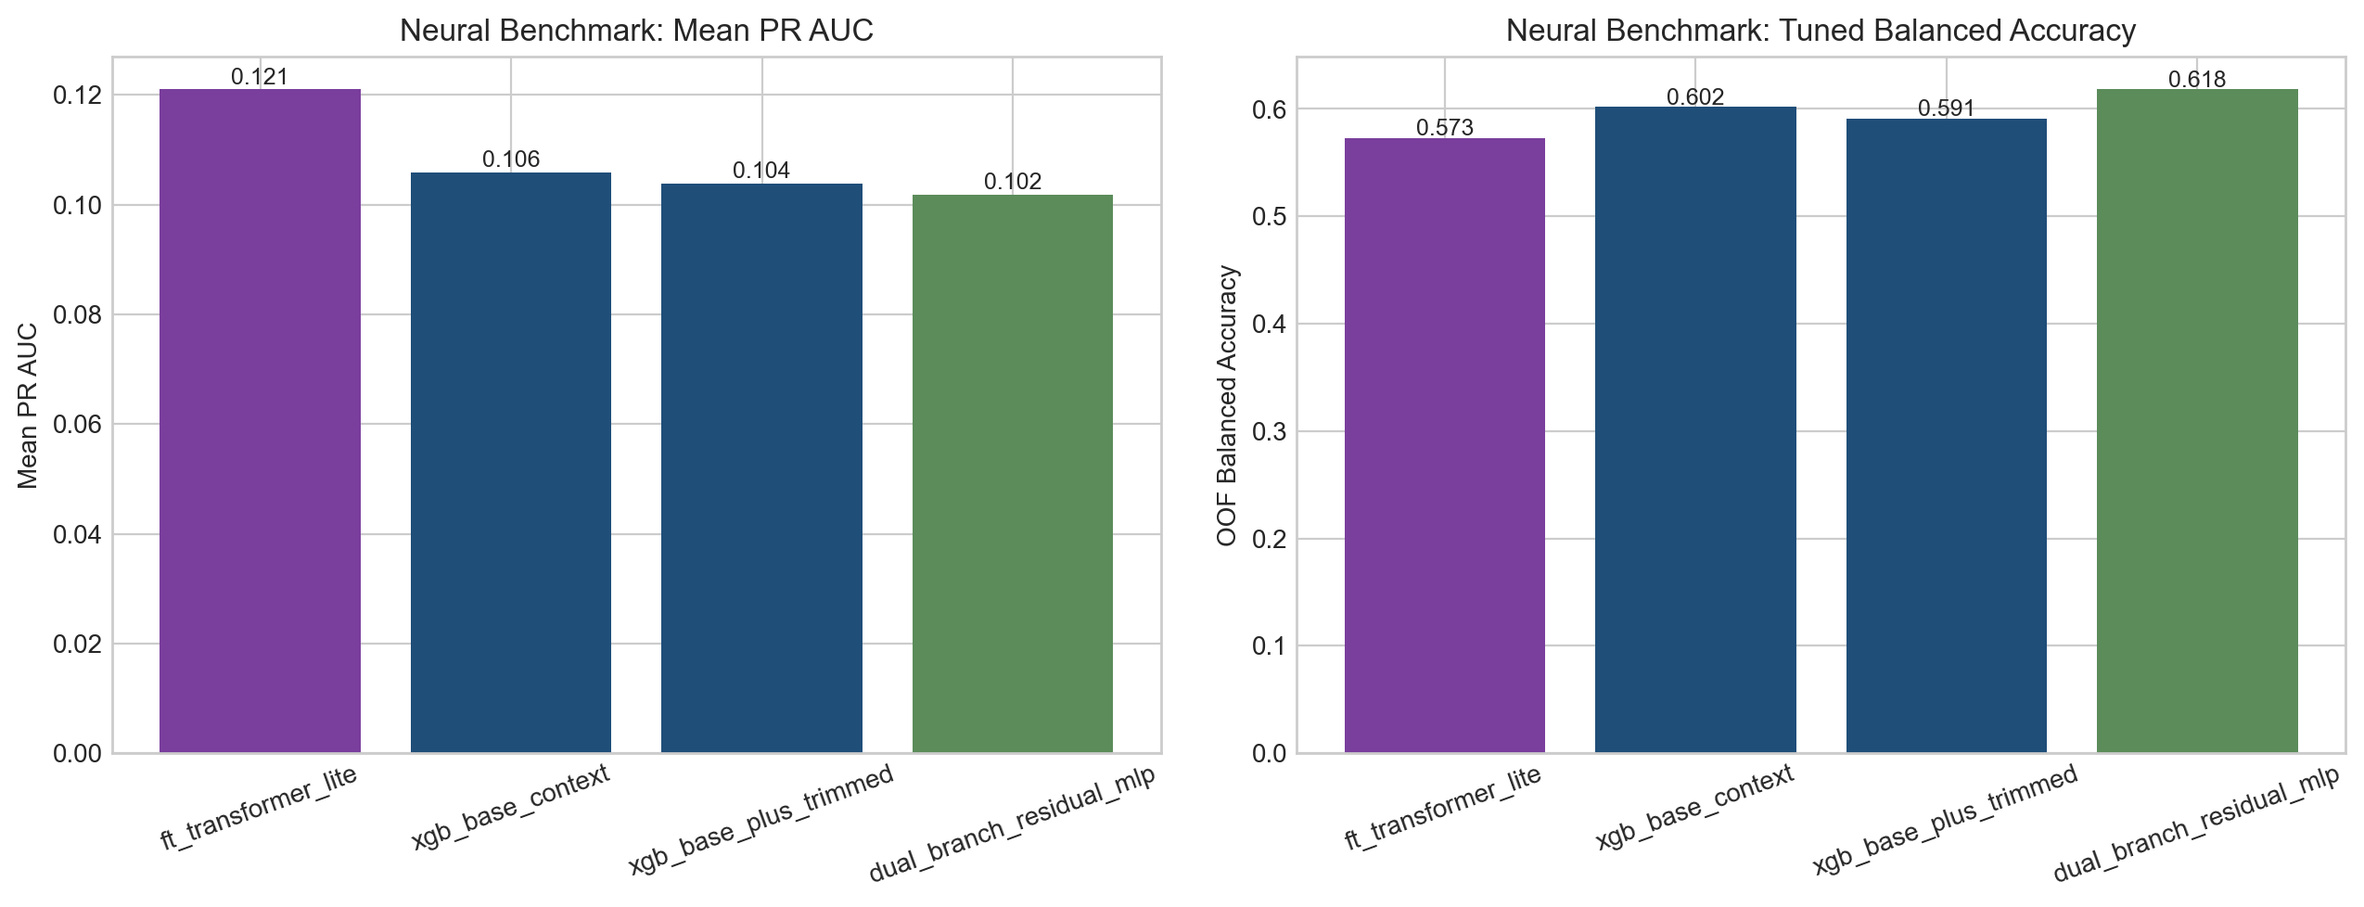
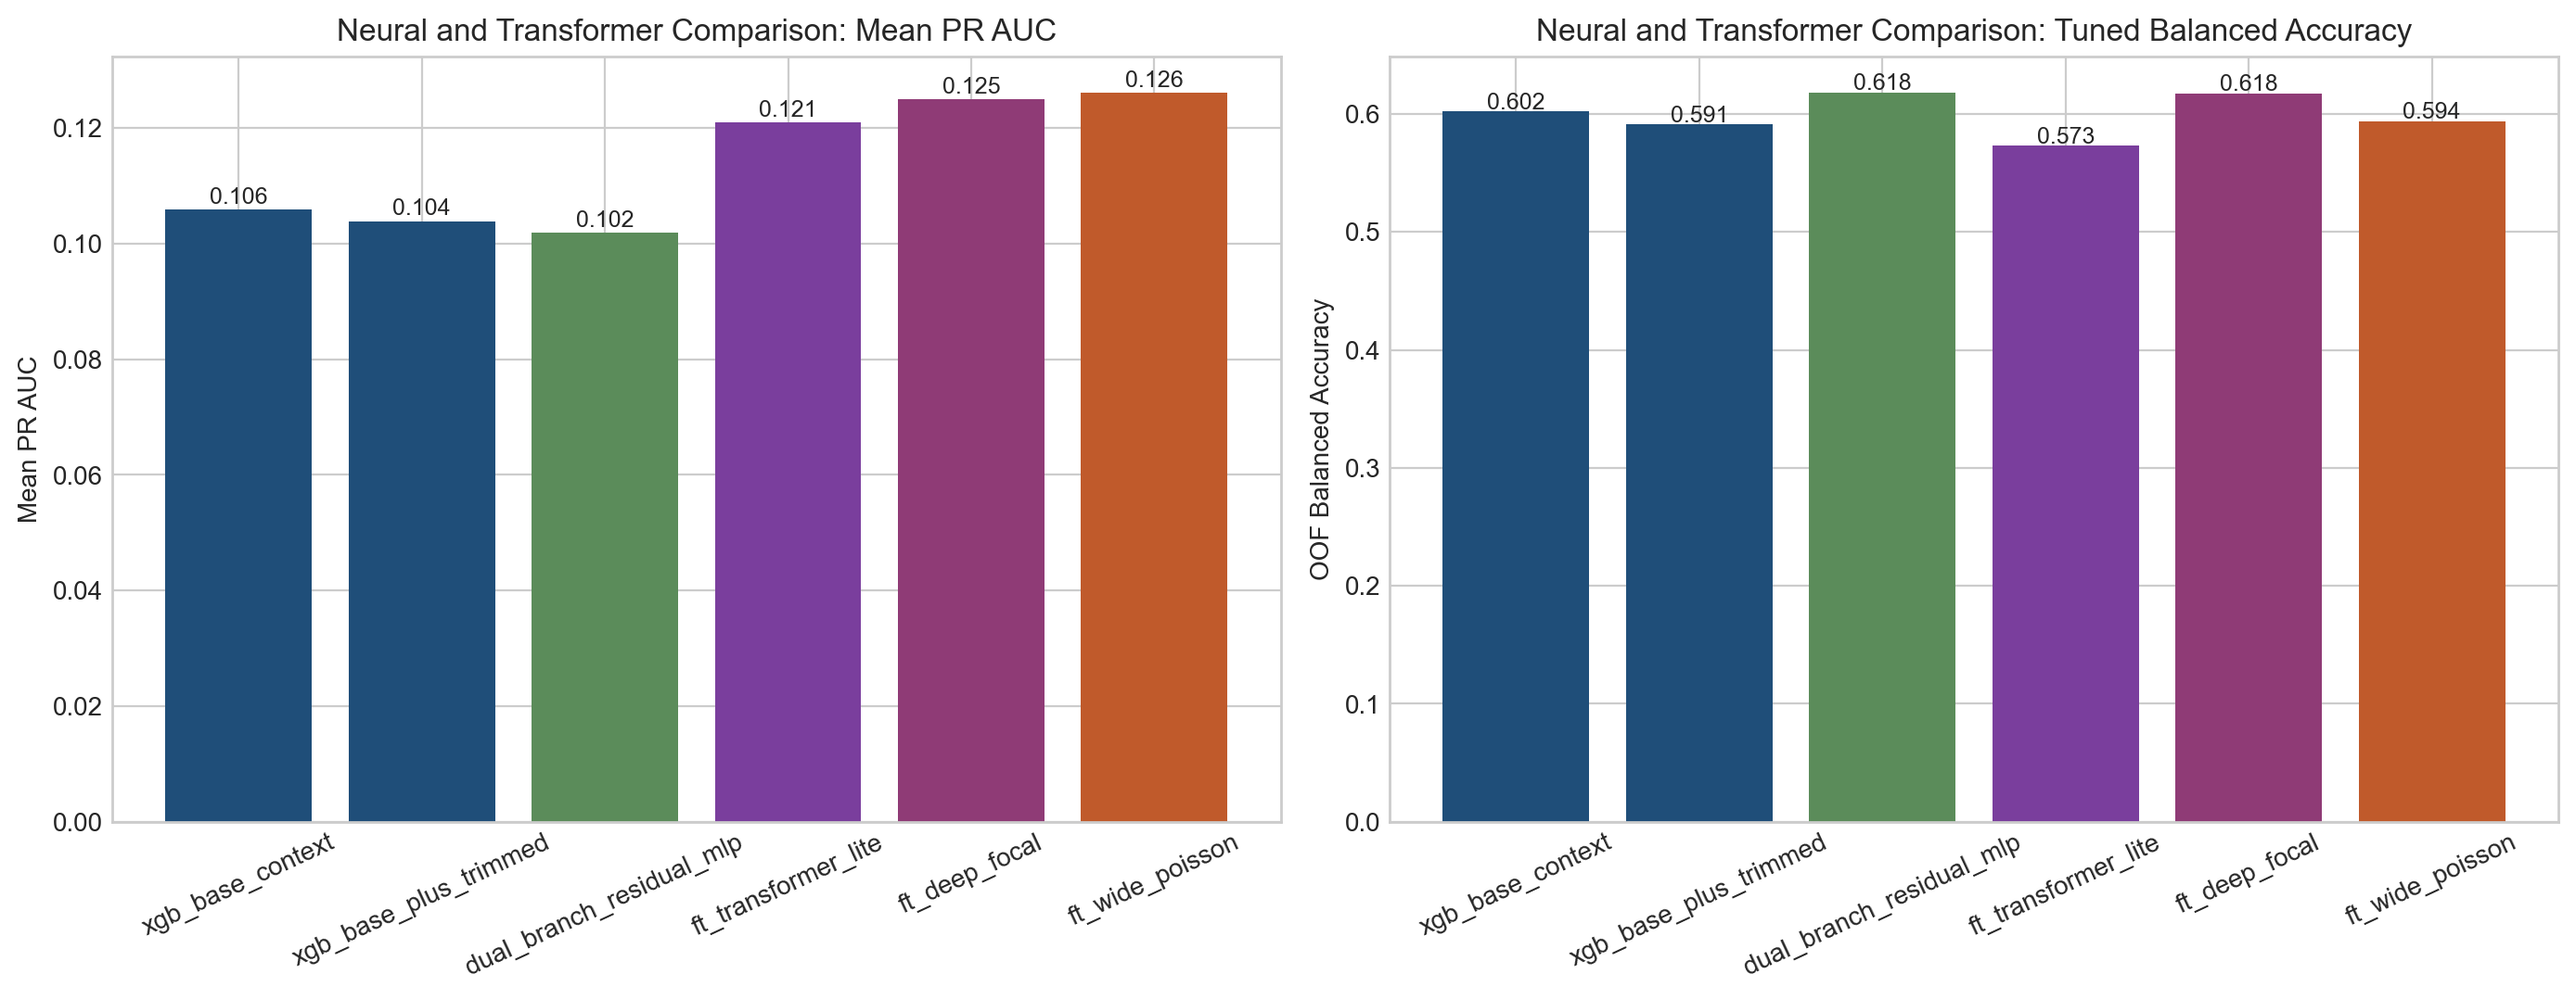
Update NN_SUMMARY.md with FT-transformer search results and add new comparison figure

diff --git a/NN_SUMMARY.md b/NN_SUMMARY.md
@@ -28,6 +28,7 @@ The following paper-ready figures accompany this summary:
 - XGBoost sequence ablation: [sequence_xgb_ablation.png](/Users/jan/Documents/competitions/hackatons/WEC_26/plots/sequence_xgb_ablation.png)
 - neural benchmark comparison: [neural_benchmark_comparison.png](/Users/jan/Documents/competitions/hackatons/WEC_26/plots/neural_benchmark_comparison.png)
 - sequence-to-neural evolution: [sequence_nn_evolution.png](/Users/jan/Documents/competitions/hackatons/WEC_26/plots/sequence_nn_evolution.png)
+- FT-transformer search comparison: [ft_transformer_search_comparison.png](/Users/jan/Documents/competitions/hackatons/WEC_26/plots/ft_transformer_search_comparison.png)
 
 ## 2. Data representation and protocol
 
@@ -243,7 +244,7 @@ This is an appropriate escalation because once the model family is structurally 
 
 ## 7. Stage 5: FT-transformer search and Poisson/intensity framing
 
-The ongoing heavier search notebook, `ft_transformer_search.ipynb`, was created to exploit the available compute budget in a disciplined way rather than through ad hoc experimentation.
+The heavier search notebook, `ft_transformer_search.ipynb`, was created to exploit the available compute budget in a disciplined way rather than through ad hoc experimentation.
 
 It does three important things:
 
@@ -271,6 +272,29 @@ For Poisson variants, the logic is:
   - `P(score later) = 1 - exp(-lambda)`
 
 This is the correct way to use a Poisson-like rare-event formulation here. It allows the model to remain a probability predictor for evaluation while giving a coherent latent-process interpretation for RQ2 and the mechanism-oriented questions.
+
+### 7.1 Search results
+
+The completed FT-transformer search produced the following ranking:
+
+| Model | Loss | Token width | Layers | Heads | Mean PR AUC | Mean Balanced Accuracy at 0.5 | Mean ROC AUC | Mean Brier Score | Tuned Threshold | OOF Balanced Accuracy at Tuned Threshold |
+|---|---|---:|---:|---:|---:|---:|---:|---:|---:|---:|
+| `ft_wide_poisson` | Poisson | 64 | 3 | 8 | `0.1262` | `0.5059` | `0.6359` | `0.0551` | `0.06` | `0.5939` |
+| `ft_deep_focal` | focal | 48 | 4 | 6 | `0.1250` | `0.6129` | `0.6369` | `0.2178` | `0.48` | `0.6176` |
+| `ft_wide_focal` | focal | 64 | 3 | 8 | `0.1177` | `0.5422` | `0.6312` | `0.2417` | `0.45` | `0.5553` |
+| `ft_repro_bce` | BCE | 32 | 2 | 4 | `0.1038` | `0.5876` | `0.6346` | `0.2404` | `0.44` | `0.5989` |
+| `ft_wide_bce` | BCE | 64 | 3 | 8 | `0.1028` | `0.5986` | `0.6050` | `0.2270` | `0.41` | `0.6006` |
+| `ft_deep_poisson` | Poisson | 48 | 4 | 6 | `0.0914` | `0.5000` | `0.5708` | `0.1044` | `0.05` | `0.5272` |
+
+Three conclusions are especially important.
+
+First, the best PR AUC in the whole executed sequence-aware neural line is now achieved by `ft_wide_poisson` with mean PR AUC `0.1262`. This is the strongest current answer to the contest’s primary predictive question.
+
+Second, the best threshold-tuned balanced accuracy among the FT-search models is achieved by `ft_deep_focal` at `0.6176`, almost matching the dual-branch residual MLP while also preserving much stronger ranking quality.
+
+Third, the search validates the broader modeling hypothesis: once the representation is compact and sequence-aware, better interaction modeling and rare-event objectives matter more than simply adding more handcrafted features.
+
+The complete FT-search comparison is visualized in [ft_transformer_search_comparison.png](/Users/jan/Documents/competitions/hackatons/WEC_26/plots/ft_transformer_search_comparison.png).
 
 ## 8. Why each change was made
 
@@ -311,11 +335,14 @@ Key results:
 - best tabular sequence-stage result:
   - `XGBoost` on `base_context`
   - mean PR AUC = `0.1161`
-- best neural result currently executed:
+- best neural result from the initial neural benchmark:
   - `FTTransformerLite`
   - mean PR AUC = `0.1210`
+- best result from the completed FT-transformer search:
+  - `ft_wide_poisson`
+  - mean PR AUC = `0.1262`
 
-Thus, player on-field behavior measured at checkpoints does predict later scoring above trivial baselines, and a transformer-style neural model appears to exploit this structure slightly better than the current tree benchmark.
+Thus, player on-field behavior measured at checkpoints does predict later scoring above trivial baselines, and the updated evidence indicates that a stronger transformer-style neural model can exploit this structure better than both the current tree benchmark and the earlier lighter transformer baseline.
 
 ### RQ2: Which aspects of player behavior determine scoring probability?
 
@@ -336,7 +363,7 @@ These features support an interpretable football story:
 - scoring risk is associated not only with raw shot or sprint totals
 - it is also associated with how pressured actions connect to possessions, how activity clusters temporally, and whether possessions escalate toward shots
 
-The Poisson/intensity framing strengthens this interpretation further because it allows these features to be described as drivers of latent scoring intensity rather than only direct classifiers of a binary outcome.
+The Poisson/intensity framing strengthens this interpretation further because it allows these features to be described as drivers of latent scoring intensity rather than only direct classifiers of a binary outcome. The fact that `ft_wide_poisson` is now the best PR AUC model makes that interpretation substantively relevant rather than merely theoretical.
 
 ### RQ3: Are sprints and shots alone sufficient?
 
@@ -407,7 +434,8 @@ The current sequence-aware and neural evidence supports a balanced conclusion:
 - full unfiltered sequence expansion is too noisy
 - compact sequence families are more defensible
 - the first custom neural architecture improved classification balance but not ranking
-- the FT-transformer family is the most promising current direction for improving the primary metric
+- the FT-transformer family is the strongest executed current direction for improving the primary metric
+- within that family, a medium-width Poisson/intensity model currently gives the best ranking performance, while a deeper focal-loss model gives the strongest threshold-tuned class balance
 
 In other words, the project has already learned something important:
 
@@ -433,8 +461,8 @@ The current neural models have relatively poor Brier scores compared with the tr
 
 For the paper, the strongest concise statement is:
 
-> Sequence-aware modeling improved the conceptual fidelity of the football representation, but naive inclusion of all engineered sequence features degraded performance. Ablation revealed that the most credible signals were concentrated in compact pressure- and possession-oriented summaries, especially those describing pressure intensity, possession linkage, escalation toward shots, and temporally concentrated activity. A custom dual-branch residual MLP improved balanced accuracy after threshold tuning but did not improve the primary ranking metric. By contrast, an FT-transformer-style tabular neural model achieved the best PR AUC among the executed neural models, indicating that the main remaining modeling gain lies in learning higher-order interactions among context, recent form, and compact sequence summaries rather than in brute-force expansion of the sequence feature space.
+> Sequence-aware modeling improved the conceptual fidelity of the football representation, but naive inclusion of all engineered sequence features degraded performance. Ablation revealed that the most credible signals were concentrated in compact pressure- and possession-oriented summaries, especially those describing pressure intensity, possession linkage, escalation toward shots, and temporally concentrated activity. A custom dual-branch residual MLP improved balanced accuracy after threshold tuning but did not improve the primary ranking metric. By contrast, the FT-transformer family consistently provided the strongest ranking results, and the current best executed model is a Poisson/intensity-based FT-transformer configuration (`ft_wide_poisson`, mean PR AUC `0.1262`). This indicates that the main remaining modeling gain lies in learning higher-order interactions among context, recent form, and compact sequence summaries, while also treating later scoring as a rare-event intensity process rather than only a direct binary classification target.
 
 If a shorter result paragraph is needed:
 
-> The best executed neural result was obtained by an FT-transformer-style model on the trimmed sequence-aware dataset, reaching mean PR AUC `0.1210`, slightly above the best earlier XGBoost sequence benchmark (`0.1161`). This suggests that compact sequence features are useful, but only when modeled with an architecture that can represent complex tabular interactions. The dual-branch residual MLP improved balanced accuracy after threshold tuning, but the FT-transformer provided the strongest answer to the primary predictive question.
+> The best executed neural result is now obtained by the Poisson-based FT-transformer configuration `ft_wide_poisson`, which reaches mean PR AUC `0.1262`, above both the earlier `FTTransformerLite` benchmark (`0.1210`) and the best earlier XGBoost sequence benchmark (`0.1161`). The strongest threshold-tuned balanced accuracy within the FT-search is delivered by `ft_deep_focal` (`0.6176`), while the dual-branch residual MLP remains competitive on class-balance-oriented decision performance. Overall, the evidence suggests that compact sequence features are useful when modeled with an architecture that can represent complex tabular interactions, and that rare-event-aware objectives can further improve the answer to the primary predictive question.

diff --git a/WHAT_HAS_BEEN_DONE.md b/WHAT_HAS_BEEN_DONE.md
@@ -402,6 +402,20 @@
   - `plots/sequence_nn_evolution.png`
 - Updated `KNN_SUMMARY.md` and `NN_SUMMARY.md` to reference these figures directly.
 
+## FT-transformer search refresh
+
+- Updated `NN_SUMMARY.md` to reflect the completed results from `artifacts/ft_transformer_search/`.
+- Replaced the earlier “ongoing FT search” framing with a results-based discussion of the completed transformer sweep.
+- Recorded the new current best neural ranking result:
+  - `ft_wide_poisson`
+  - mean PR AUC `0.126164`
+- Recorded the strongest threshold-tuned FT-search balanced-accuracy result:
+  - `ft_deep_focal`
+  - OOF balanced accuracy `0.617613`
+- Refreshed the neural figure package so it matches the newest FT-search outputs.
+- Added a new FT-search comparison figure:
+  - `plots/ft_transformer_search_comparison.png`
+
 # `notebooks/knn_pipeline.ipynb`
 
 ## KNN modeling baseline and extensions
